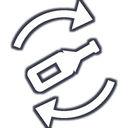
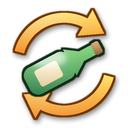
Juego de la botella: iconos de color para el menú
«Jugar a la botella» (botella y corazón) y «Girar la botella» (botella y
flechas de giro) pasan a iconos de color con degradado, brillo y
contorno, como los iconos de categoría del menú del juego.
herramientas/dibujar_iconos_botella.py los dibuja.

Claude-Session: https://claude.ai/code/session_01BQBAgYWwhyjFX8ruG6ccLe

diff --git a/herramientas/dibujar_iconos_botella.py b/herramientas/dibujar_iconos_botella.py
@@ -1,0 +1,114 @@
+"""Dibuja los iconos de color del menú de la botella (estilo de los iconos del juego).
+
+Uso: python3 herramientas/dibujar_iconos_botella.py
+Guarda los PNG de 128x128 en botella/fuentes/iconos; construir_botella.py los pasa a DST.
+"""
+import os
+from PIL import Image, ImageDraw, ImageFilter, ImageChops
+import numpy as np, math
+S=512
+SALIDA = os.path.join(os.path.dirname(os.path.dirname(os.path.abspath(__file__))), 'botella', 'fuentes', 'iconos')
+
+def mascara(dibujar):
+    m=Image.new('L',(S,S),0); dibujar(ImageDraw.Draw(m)); return m
+
+def degradado(mask, c_arriba, c_abajo, luz=(0.35,0.3), fuerza=0.35):
+    """Relleno con degradado vertical + un poco de luz radial (efecto volumen)."""
+    a=np.array(mask,float)/255
+    ys,xs=np.nonzero(a>0.5)
+    if len(ys)==0: return Image.new('RGBA',(S,S))
+    y0,y1,x0,x1=ys.min(),ys.max(),xs.min(),xs.max()
+    Y,X=np.mgrid[0:S,0:S]
+    t=np.clip((Y-y0)/max(1,y1-y0),0,1)[...,None]
+    col=np.array(c_arriba,float)*(1-t)+np.array(c_abajo,float)*t
+    cx=x0+(x1-x0)*luz[0]; cy=y0+(y1-y0)*luz[1]; r=max(x1-x0,y1-y0)
+    d=np.sqrt((X-cx)**2+(Y-cy)**2)/r
+    brillo=np.clip(1-d,0,1)[...,None]*fuerza
+    col=col+(255-col)*brillo
+    out=np.dstack([np.clip(col,0,255),a*255]).astype(np.uint8)
+    return Image.fromarray(out,'RGBA')
+
+def contorno(mask, grosor, color):
+    borde=mask.filter(ImageFilter.MaxFilter(grosor*2+1)).filter(ImageFilter.GaussianBlur(1.5))
+    im=Image.new('RGBA',(S,S),color); im.putalpha(borde); return im
+
+def reflejo(mask, caja, opacidad=170):
+    """Mancha blanca de brillo recortada a la forma."""
+    h=Image.new('L',(S,S),0); ImageDraw.Draw(h).ellipse(caja,fill=opacidad)
+    h=h.filter(ImageFilter.GaussianBlur(10)); h=ImageChops.multiply(h,mask)
+    im=Image.new('RGBA',(S,S),(255,255,255,0)); im.putalpha(h); return im
+
+def capa(mask, arriba, abajo, borde, brillo_caja=None, luz=(0.35,0.3)):
+    lienzo=Image.new('RGBA',(S,S),(0,0,0,0))
+    lienzo.alpha_composite(contorno(mask,7,borde))
+    lienzo.alpha_composite(degradado(mask,arriba,abajo,luz))
+    if brillo_caja: lienzo.alpha_composite(reflejo(mask,brillo_caja))
+    return lienzo
+
+def rotar(dibujar_horizontal, ang, cx, cy, tam):
+    """Dibuja una forma horizontal en una capa aparte, la gira y la coloca."""
+    w,h=tam; m=Image.new('L',(w,h),0); dibujar_horizontal(ImageDraw.Draw(m),w,h)
+    r=m.rotate(ang,resample=Image.BICUBIC,expand=True)
+    out=Image.new('L',(S,S),0); out.paste(r,(int(cx-r.width/2),int(cy-r.height/2))); return out
+
+def botella(ang, cx, cy, escala=1.0):
+    L,W=int(330*escala),int(118*escala)
+    def cuerpo(d,w,h):
+        d.rounded_rectangle([0,0,int(w*0.6),h-1],radius=int(h*0.3),fill=255)
+        d.polygon([(int(w*0.58),0),(int(w*0.74),int(h*0.32)),(int(w*0.74),int(h*0.68)),(int(w*0.58),h-1)],fill=255)
+        d.rectangle([int(w*0.72),int(h*0.32),int(w*0.93),int(h*0.68)],fill=255)
+    def etiqueta(d,w,h):
+        d.rounded_rectangle([int(w*0.14),int(h*0.2),int(w*0.44),int(h*0.8)],radius=10,fill=255)
+    def corcho(d,w,h):
+        d.rounded_rectangle([int(w*0.9),int(h*0.28),w-1,int(h*0.72)],radius=8,fill=255)
+    return [rotar(f,ang,cx,cy,(L,W)) for f in (cuerpo,etiqueta,corcho)]
+
+def pintar_botella(lienzo, masks):
+    cuerpo,etiqueta,corcho=masks
+    todo=ImageChops.lighter(cuerpo,corcho)
+    lienzo.alpha_composite(contorno(todo,8,(18,40,24,255)))
+    lienzo.alpha_composite(degradado(cuerpo,(120,215,110),(22,110,50),luz=(0.3,0.2),fuerza=0.3))
+    lienzo.alpha_composite(degradado(etiqueta,(255,246,220),(225,200,150),fuerza=0.2))
+    lienzo.alpha_composite(degradado(corcho,(214,160,100),(140,85,40),fuerza=0.2))
+    ys,xs=np.nonzero(np.array(cuerpo)>128)
+    cx,cy=xs.mean(),ys.mean()
+    lienzo.alpha_composite(reflejo(cuerpo,[cx-120,cy-80,cx+40,cy-10],150))
+
+def corazon(cx,cy,r):
+    def f(d):
+        d.ellipse([cx-r,cy-r*0.9,cx+r*0.1,cy+r*0.2],fill=255)
+        d.ellipse([cx-r*0.1,cy-r*0.9,cx+r,cy+r*0.2],fill=255)
+        d.polygon([(cx-r*0.97,cy-r*0.2),(cx+r*0.97,cy-r*0.2),(cx,cy+r*1.05)],fill=255)
+    return mascara(f)
+
+def flecha_circular(cx,cy,r,grosor,a0,a1):
+    def f(d):
+        d.arc([cx-r,cy-r,cx+r,cy+r],a0,a1,fill=255,width=grosor)
+        t=math.radians(a1); rm=r-grosor/2
+        x,y=cx+rm*math.cos(t),cy+rm*math.sin(t)
+        tx,ty=-math.sin(t),math.cos(t); nx,ny=math.cos(t),math.sin(t); h=grosor*1.5
+        d.polygon([(x+tx*h*1.3,y+ty*h*1.3),(x+nx*h-tx*h*0.15,y+ny*h-ty*h*0.15),(x-nx*h-tx*h*0.15,y-ny*h-ty*h*0.15)],fill=255)
+    return mascara(f)
+
+def sombra(lienzo):
+    a=lienzo.split()[3].filter(ImageFilter.GaussianBlur(9))
+    s=Image.new('RGBA',(S,S),(0,0,0,0)); s.putalpha(a.point(lambda v:int(v*0.45)))
+    out=Image.new('RGBA',(S,S),(0,0,0,0)); out.paste(s,(6,10)); out.alpha_composite(lienzo); return out
+
+def final(lienzo,nombre):
+    im=sombra(lienzo).resize((128,128),Image.LANCZOS); im.save(nombre); return im
+
+# --- Jugar a la botella: botella verde + corazón rosa
+L=Image.new('RGBA',(S,S),(0,0,0,0))
+pintar_botella(L, botella(28,236,300,1.05))
+c=corazon(360,150,92)
+L.alpha_composite(capa(c,(255,140,190),(215,30,110),(90,10,45,255),[285,85,365,145]))
+jugar=final(L,os.path.join(SALIDA,'Jennikita_Botella_Icono_Jugar.png'))
+
+# --- Girar la botella: botella + flecha circular naranja
+L=Image.new('RGBA',(S,S),(0,0,0,0))
+f1=flecha_circular(256,256,205,40,195,300); f2=flecha_circular(256,256,205,40,15,120)
+for f in (f1,f2): L.alpha_composite(capa(f,(255,225,90),(240,120,0),(110,50,0,255),None,luz=(0.3,0.1)))
+pintar_botella(L, botella(28,256,262,1.0))
+girar=final(L,os.path.join(SALIDA,'Jennikita_Botella_Icono_Girar.png'))
+
